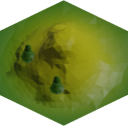
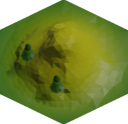
hard coded values weg

diff --git a/hex.cpp b/hex.cpp
@@ -13,6 +13,9 @@ Hex::Hex(Sprite *sprite, vec2 pos)
 	: sprite(sprite)
 	, pos(pos)
 {
+	float x = sprite->GetWidth();
+	float y = sprite->GetHeight();
+	size = vec2(floor(x / sqrt(3)), y / 2 );
 }
 
 void Hex::Init()
@@ -31,7 +34,7 @@ void Hex::Update(float deltatime)
 
 void Hex::Draw(Surface* screen) 
 {
-	sprite->Draw(screen, 73 * (sqrtf(3) * pos.x + (sqrtf(3)/2) * pos.y), 62 * 3./2 * pos.y);
+	sprite->Draw(screen, size.x * (sqrtf(3) * pos.x + (sqrtf(3)/2) * pos.y), size.y * 3./2 * pos.y);
 }
 
 void Hex::HandleInput()

diff --git a/hex.h b/hex.h
@@ -7,6 +7,7 @@ class Hex
 {
   private:
 	Sprite *sprite;
+	vec2 size;
 
   public:
 	Hex();
